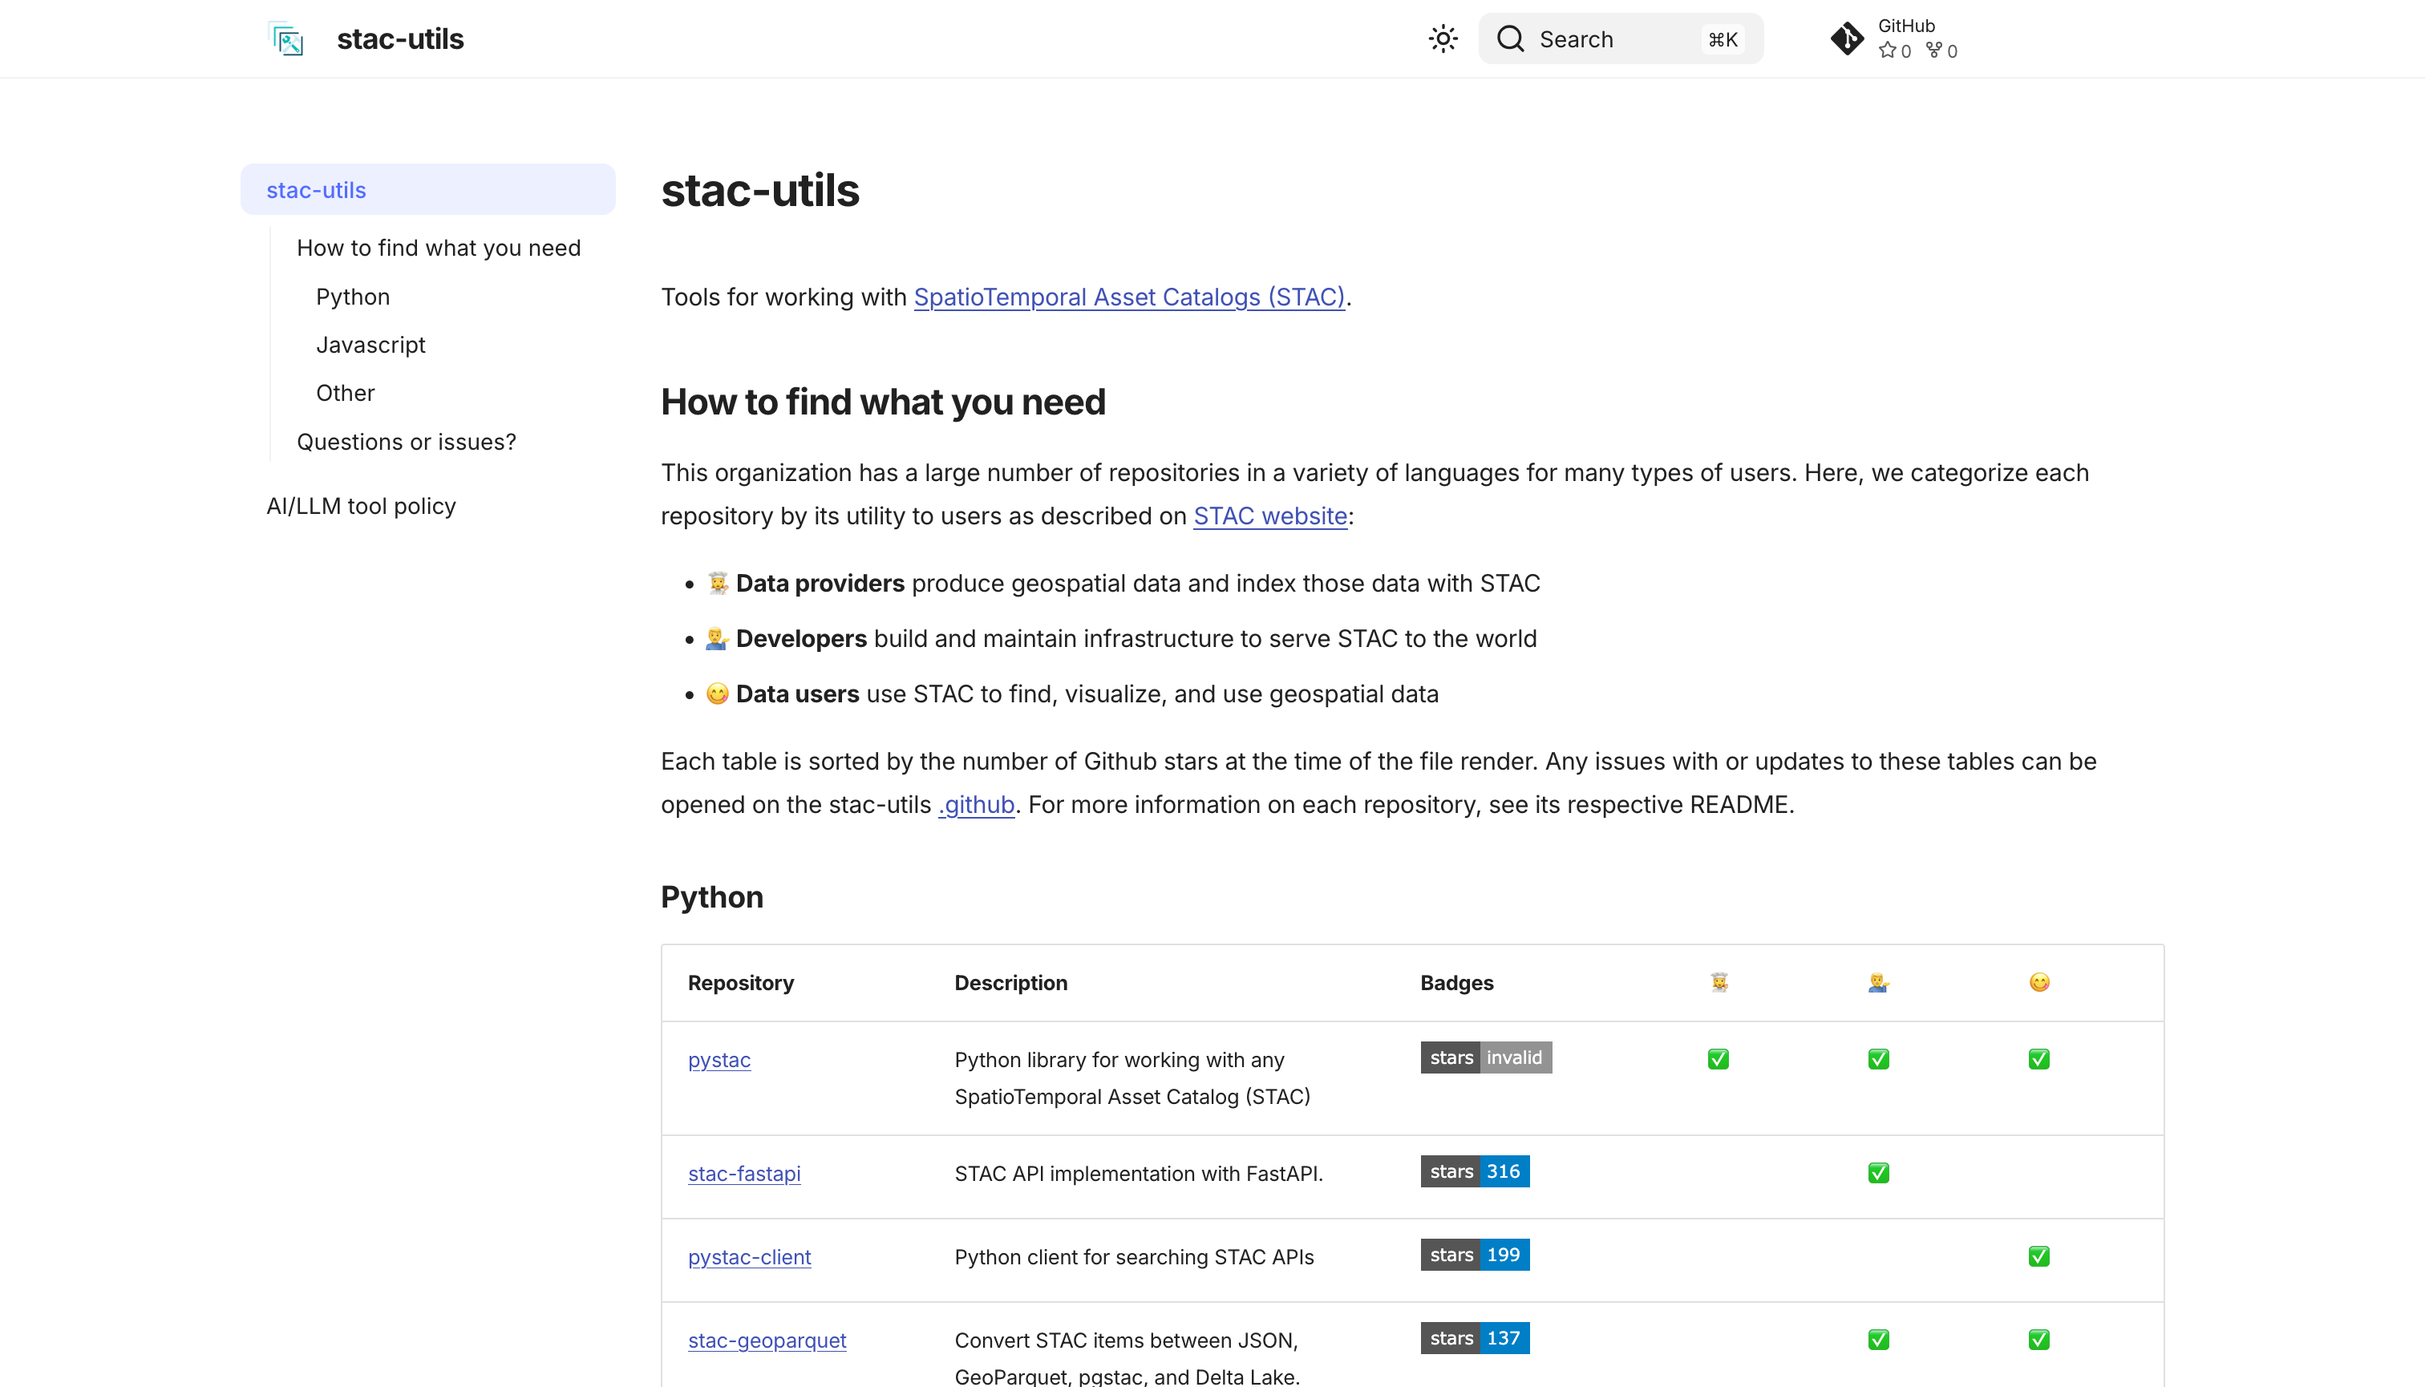
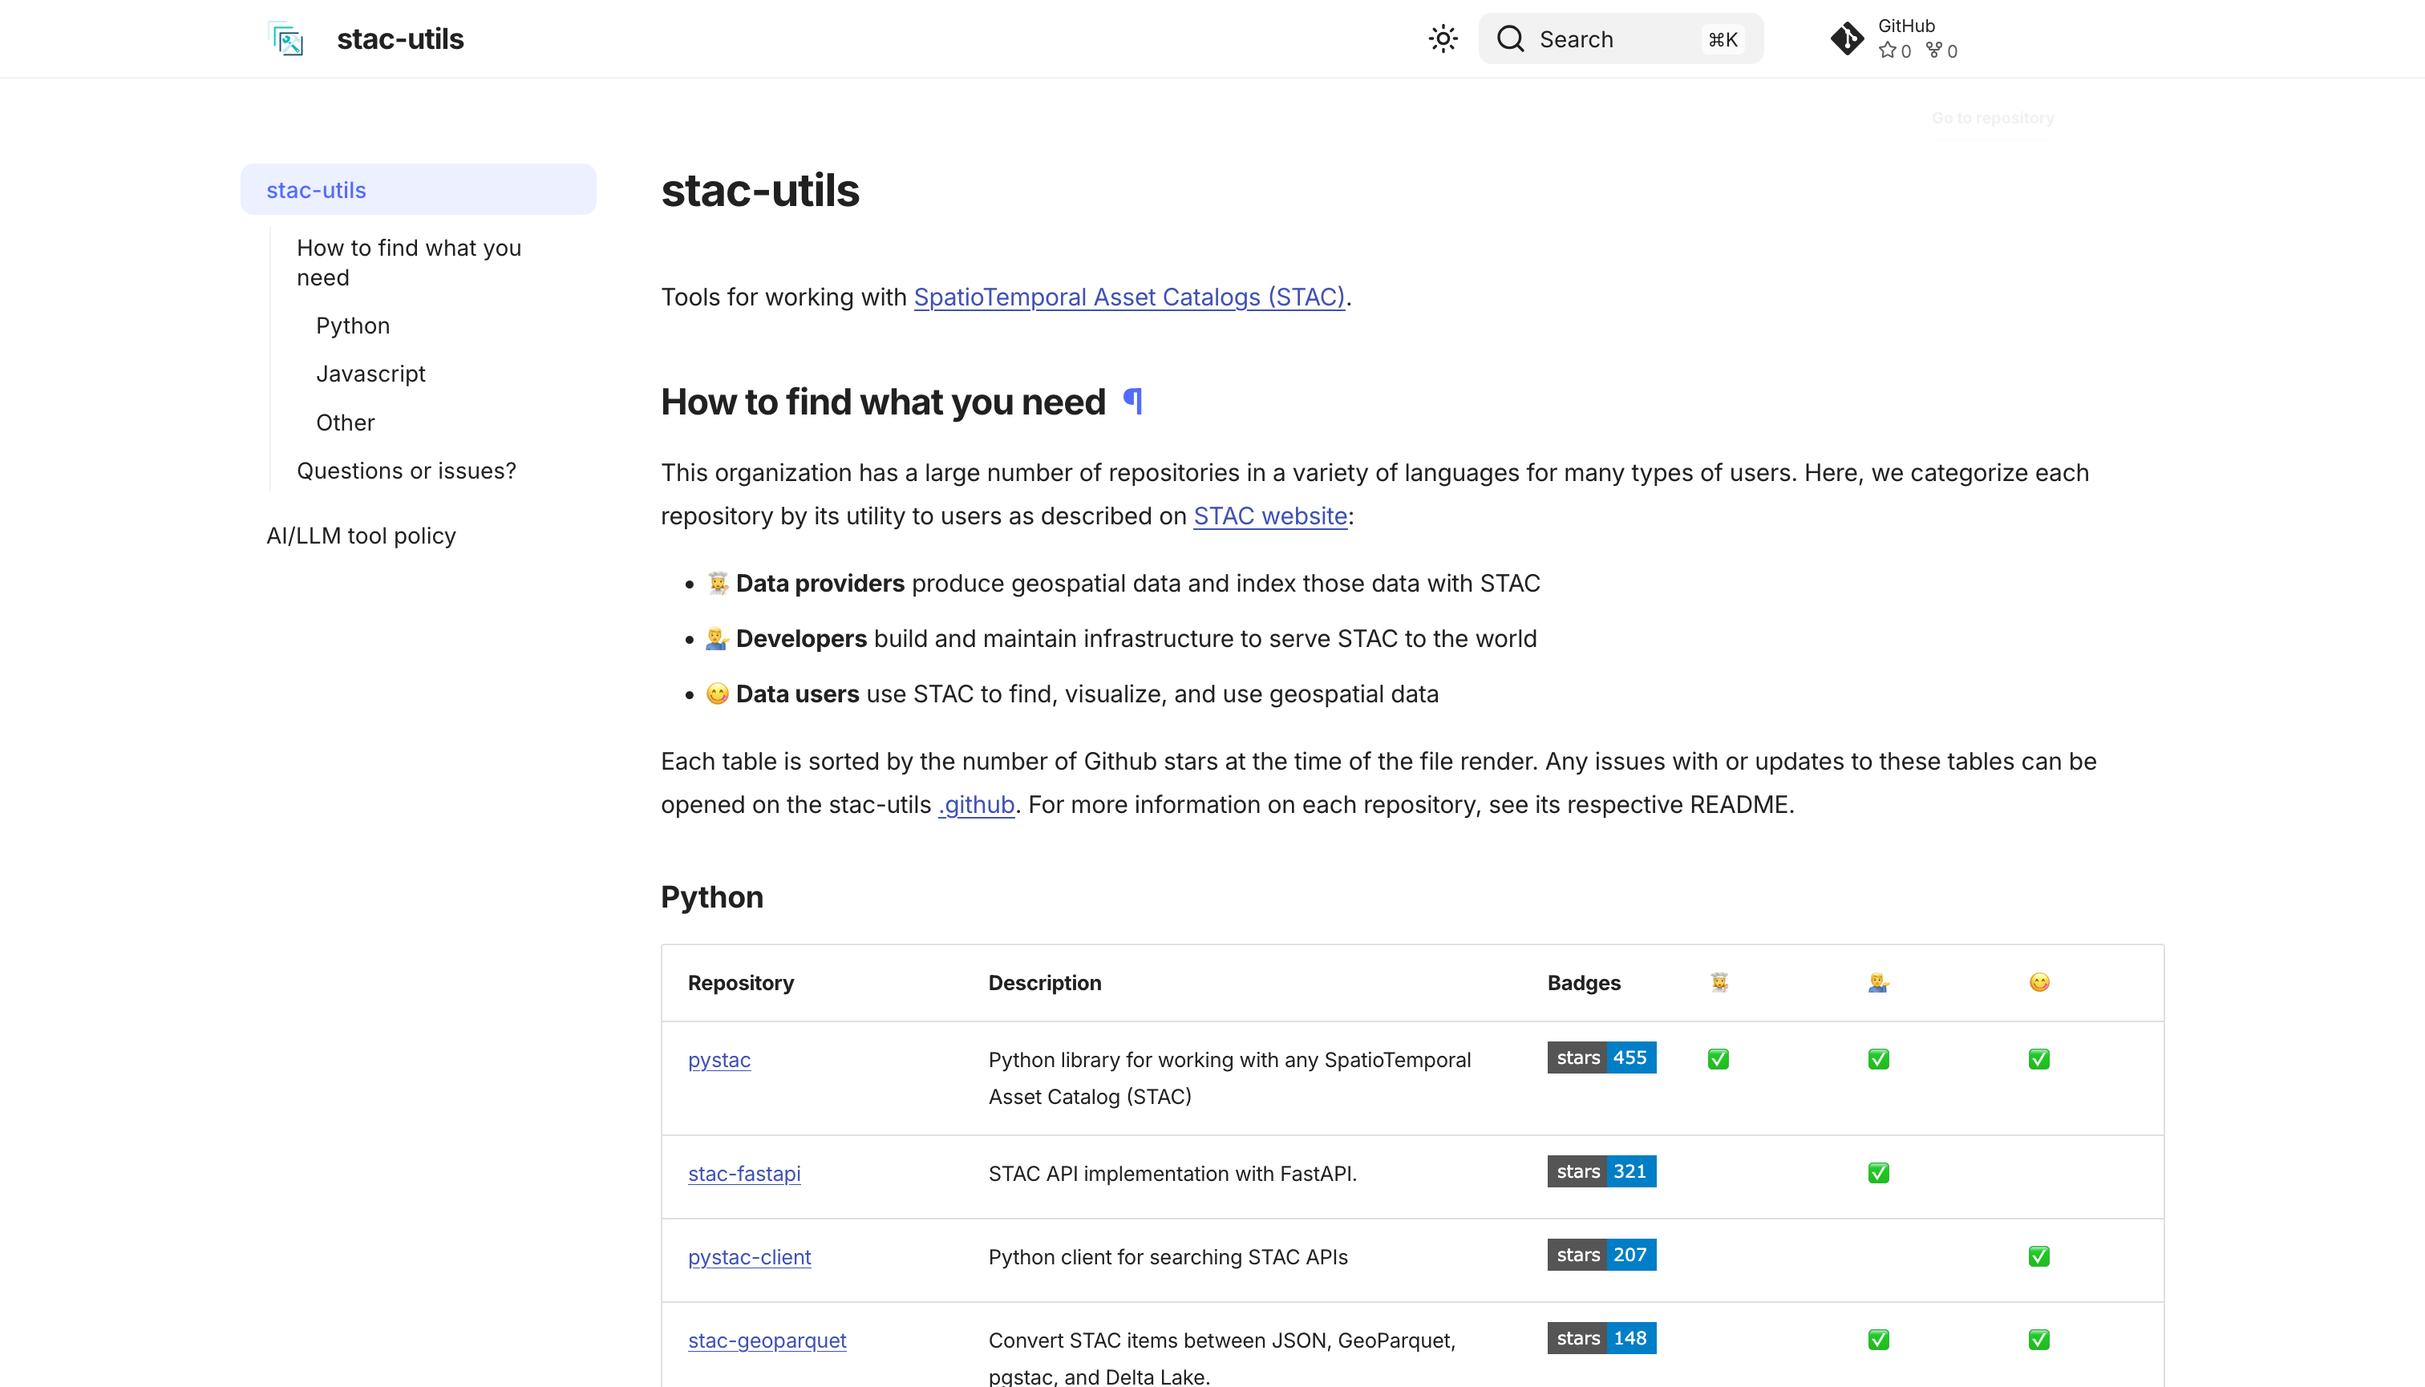
feat: STAC JAXA talk slides (first of two)

diff --git a/2026-08-26-state-of-stac-tooling.html b/2026-08-26-state-of-stac-tooling.html
@@ -1,0 +1,355 @@
+<!doctype html>
+<html lang="en">
+    <head>
+        <meta charset="utf-8" />
+        <meta
+            name="viewport"
+            content="width=device-width, initial-scale=1.0, maximum-scale=1.0, user-scalable=no"
+        />
+
+        <title>State of STAC Tooling</title>
+
+        <link rel="stylesheet" href="dist/reset.css" />
+        <link rel="stylesheet" href="dist/reveal.css" />
+        <link rel="stylesheet" href="dist/theme/devseed.css" />
+        <link rel="preconnect" href="https://fonts.googleapis.com" />
+        <link rel="preconnect" href="https://fonts.gstatic.com" crossorigin />
+        <link
+            href="https://fonts.googleapis.com/css2?family=Shadows+Into+Light&display=swap"
+            rel="stylesheet"
+        />
+
+        <!-- Theme used for syntax highlighted code -->
+        <link rel="stylesheet" href="plugin/highlight/monokai.css" />
+
+        <style>
+            @font-face {
+                font-family: xkcd-script;
+                src: url("https://cdn.jsdelivr.net/gh/ipython/xkcd-font@master/xkcd-script/font/xkcd-script.woff")
+                    format("woff");
+            }
+            h3.handwriting,
+            p.handwriting {
+                font-family: "xkcd-script", "Shadows Into Light", cursive;
+                font-style: normal;
+                color: #d04200;
+            }
+            .reveal .mermaid {
+                box-shadow: none;
+            }
+        </style>
+    </head>
+    <body>
+        <div class="reveal">
+            <div class="slides">
+                <section>
+                    <h2>State of STAC Tooling</h2>
+
+                    <img src="img/repair-tool-kit.jpg" class="r-stretch" />
+
+                    <p style="font-size: x-large">
+                        Pete Gadomski, Development Seed
+                    </p>
+
+                    <p style="font-size: small">
+                        Image
+                        <a
+                            href="https://commons.wikimedia.org/wiki/File:Repair_tool_kit.jpg"
+                            >Wilfredor</a
+                        >, CC0, via Wikimedia Commons
+                    </p>
+                </section>
+                <section>
+                    <h2>STAC actors</h2>
+
+                    <img
+                        src="img/stac-actors.excalidraw.png"
+                        class="r-stretch"
+                    />
+
+                    <ul style="font-size: x-large">
+                        <li>
+                            👩🍳 <strong>Data providers</strong> produce
+                            geospatial data and index those data with STAC
+                        </li>
+                        <li>
+                            💁 <strong> Developers </strong> build and maintain
+                            infrastructure to serve STAC to the world
+                        </li>
+                        <li>
+                            😋 <strong> Data users </strong> use STAC to find,
+                            visualize, and use geospatial data
+                        </li>
+                    </ul>
+                </section>
+                <section>
+                    <h2>stac-utils</h2>
+
+                    <img src="img/stac-utils.png" class="r-stretch" />
+
+                    <p>
+                        <a href="https://github.com/stac-utils"
+                            >https://github.com/stac-utils</a
+                        >
+                    </p>
+                </section>
+                <section>
+                    <section>
+                        <h2>Visualization</h2>
+
+                        <p>For 😋 <strong> Data users </strong></p>
+                    </section>
+                    <section>
+                        <h2>stac-browser</h2>
+
+                        <img src="img/stac-browser.gif" class="r-stretch" />
+
+                        <p>
+                            <a href="https://browser.moregeo.it"
+                                >https://browser.moregeo.it</a
+                            >
+                        </p>
+                    </section>
+                    <section>
+                        <h2>stac-map</h2>
+
+                        <img src="img/stac-map.gif" class="r-stretch" />
+
+                        <p>
+                            <a href="https://developmentseed.org/stac-map"
+                                >https://developmentseed.org/stac-map</a
+                            >
+                        </p>
+                    </section>
+                    <section>
+                        <h2>QGIS</h2>
+
+                        <img src="img/stac-qgis.gif" class="r-stretch" />
+
+                        <p>
+                            <a href="https://www.qgis.org/">https://www.qgis.org/</a>
+                        </p>
+                    </section>
+                    <section>
+                        <h2>ArcGIS</h2>
+
+                        <img src="img/stac-arcgis.gif" class="r-stretch" />
+
+                        <p>
+                            <a
+                                href="https://doc.esri.com/en/arcgis-pro/latest/help/data/imagery/explore-stac.html"
+                                >ArcGIS documentation</a
+                            >
+                        </p>
+                    </section>
+                </section>
+                <section>
+                    <section>
+                        <h2>Analysis</h2>
+
+                        <p>For 😋 <strong> Data users </strong></p>
+                    </section>
+                    <section>
+                        <h2>pystac-client</h2>
+
+                        <img
+                            src="img/pystac-client.excalidraw.png"
+                            class="r-stretch"
+                        />
+
+                        <pre><code data-trim data-noescape class="language-python" style="font-size: x-large;">
+                          from pystac_client import Client
+
+                          client = Client.open("https://stac.eoapi.dev")
+                          search = client.search(collections=["MAXAR_yellowstone_flooding22"])
+                          for item in search.items():
+                              print(f"- {item.id}")
+                        </code></pre>
+
+                        <a
+                            href="https://github.com/stac-utils/pystac-client"
+                            style="font-size: large"
+                            >https://github.com/stac-utils/pystac-client</a
+                        >
+                    </section>
+                    <section>
+                        <h2>rustac and stac-geoparquet</h2>
+
+                        <img
+                            src="img/rustac.excalidraw.png"
+                            class="r-stretch"
+                        />
+
+                        <pre><code data-trim data-noescape class="language-python" style="font-size: x-large;">
+                            await rustac.search_to(
+                                "items.parquet",
+                                "https://stac.eoapi.dev",
+                                collections=["MAXAR_yellowstone_flooding22"],
+                            )
+                            for item in await rustac.search("items.parquet"):
+                                print(f"- {item['id']}")
+                        </code></pre>
+
+                        <a
+                            href="https://github.com/stac-utils/rustac-py"
+                            style="font-size: large"
+                            >https://github.com/stac-utils/rustac-py</a
+                        >
+                    </section>
+                    <section>
+                        <h2>DuckDB</h2>
+
+                        <img
+                            src="img/duckdb.excalidraw.png"
+                            class="r-stretch"
+                        />
+
+                        <pre><code data-trim data-noescape class="language-sql" style="font-size: x-large;">
+                        select id from 'items.parquet';
+                        select id from 'https://stac.test/items.parquet';
+                        select id from 's3://mybucket/items.parquet';
+                        </code></pre>
+
+                        <a href="https://duckdb.org/">https://duckdb.org/</a>
+                    </section>
+                    <section>
+                        <h2>odc-stac, stackstac, lazycogs</h2>
+
+                        <img
+                            src="img/stac-datacubes.excalidraw.png"
+                            class="r-stretch"
+                        />
+
+                        <pre><code data-trim data-noescape class="language-python" style="font-size: x-large;">
+                            data_array: xarray.DataArray = lazycogs.open(
+                                "items.parquet",
+                                bbox=bbox,
+                                crs=crs,
+                                resolution=10.0,
+                                bands=["red", "green", "blue", "nir"],
+                            )
+                        </code></pre>
+                    </section>
+                </section>
+                <section>
+                    <h2>Infrastructure</h2>
+
+                    <p>For 💁 <strong> Developers </strong></p>
+
+                    <img
+                        src="img/stac-infrastructure.excalidraw.png"
+                        class="r-stretch"
+                    />
+                </section>
+                <section>
+                    <section>
+                        <h2>Patterns</h2>
+
+                        <p>For 👩🍳 <strong>Data providers</strong></p>
+                    </section>
+                    <section>
+                        <h2>stactools-packages</h2>
+
+                        <img
+                            src="img/stactools-packages.png"
+                            class="r-stretch"
+                        />
+
+                        <a href="https://github.com/stactools-packages"
+                            >https://github.com/stactools-packages</a
+                        >
+                    </section>
+                    <section>
+                        <h2><del>stactools</del> STAC tools</h2>
+
+                        <img
+                            src="img/stac-tools.excalidraw.png"
+                            class="r-stretch"
+                        />
+                    </section>
+                    <section>
+                        <h2>Metadata mapping</h2>
+
+                        <div
+                            style="
+                                display: flex;
+                                justify-content: center;
+                                gap: 1em;
+                            "
+                            class="r-stretch"
+                        >
+                            <img
+                                src="img/stactools-drake-meme.jpg"
+                                style="max-height: 400px"
+                            />
+                            <img
+                                src="img/light-system.jpg"
+                                style="max-height: 300px"
+                                class="fragment"
+                            />
+                        </div>
+                    </section>
+                </section>
+                <section>
+                    <h2>Contributing</h2>
+
+                    <img
+                        src="img/bernie-stac-software.jpg"
+                        class="r-stretch"
+                    />
+                </section>
+                <section>
+                    <h2>Fin</h2>
+
+                    <img src="img/repair-tool-kit.jpg" class="r-stretch" />
+
+                    <p>Thanks for your time!</p>
+
+                    <p style="font-size: large">
+                        <a
+                            href="https://www.gadom.ski/presentations/2026-08-26-state-of-stac-tooling.html"
+                            >slides</a
+                        >
+                        |
+                        <a href="https://github.com/gadomski/">@gadomski</a> on
+                        Github |
+                        <a href="https://bsky.app/profile/gadom.ski"
+                            >gadom.ski</a
+                        >
+                        on Bluesky
+                    </p>
+
+                    <p style="font-size: small">
+                        Image
+                        <a
+                            href="https://commons.wikimedia.org/wiki/File:Repair_tool_kit.jpg"
+                            >Wilfredor</a
+                        >, CC0, via Wikimedia Commons
+                    </p>
+                </section>
+            </div>
+        </div>
+
+        <script src="dist/reveal.js"></script>
+        <script src="plugin/notes/notes.js"></script>
+        <script src="plugin/markdown/markdown.js"></script>
+        <script src="plugin/highlight/highlight.js"></script>
+        <script src="plugin/mermaid/mermaid.js"></script>
+        <script>
+            // More info about initialization & config:
+            // - https://revealjs.com/initialization/
+            // - https://revealjs.com/config/
+            Reveal.initialize({
+                hash: true,
+
+                // Learn about plugins: https://revealjs.com/plugins/
+                plugins: [
+                    RevealMarkdown,
+                    RevealHighlight,
+                    RevealNotes,
+                    RevealMermaid,
+                ],
+            });
+        </script>
+    </body>
+</html>

diff --git a/index.html b/index.html
@@ -62,6 +62,11 @@
                                 >2026-07-10-cng-python-rust</a
                             >
                         </li>
+                        <li>
+                            <a href="./2026-08-26-state-of-stac-tooling.html"
+                                >2026-08-26-state-of-stac-tooling</a
+                            >
+                        </li>
                     </ul>
                 </section>
             </div>
